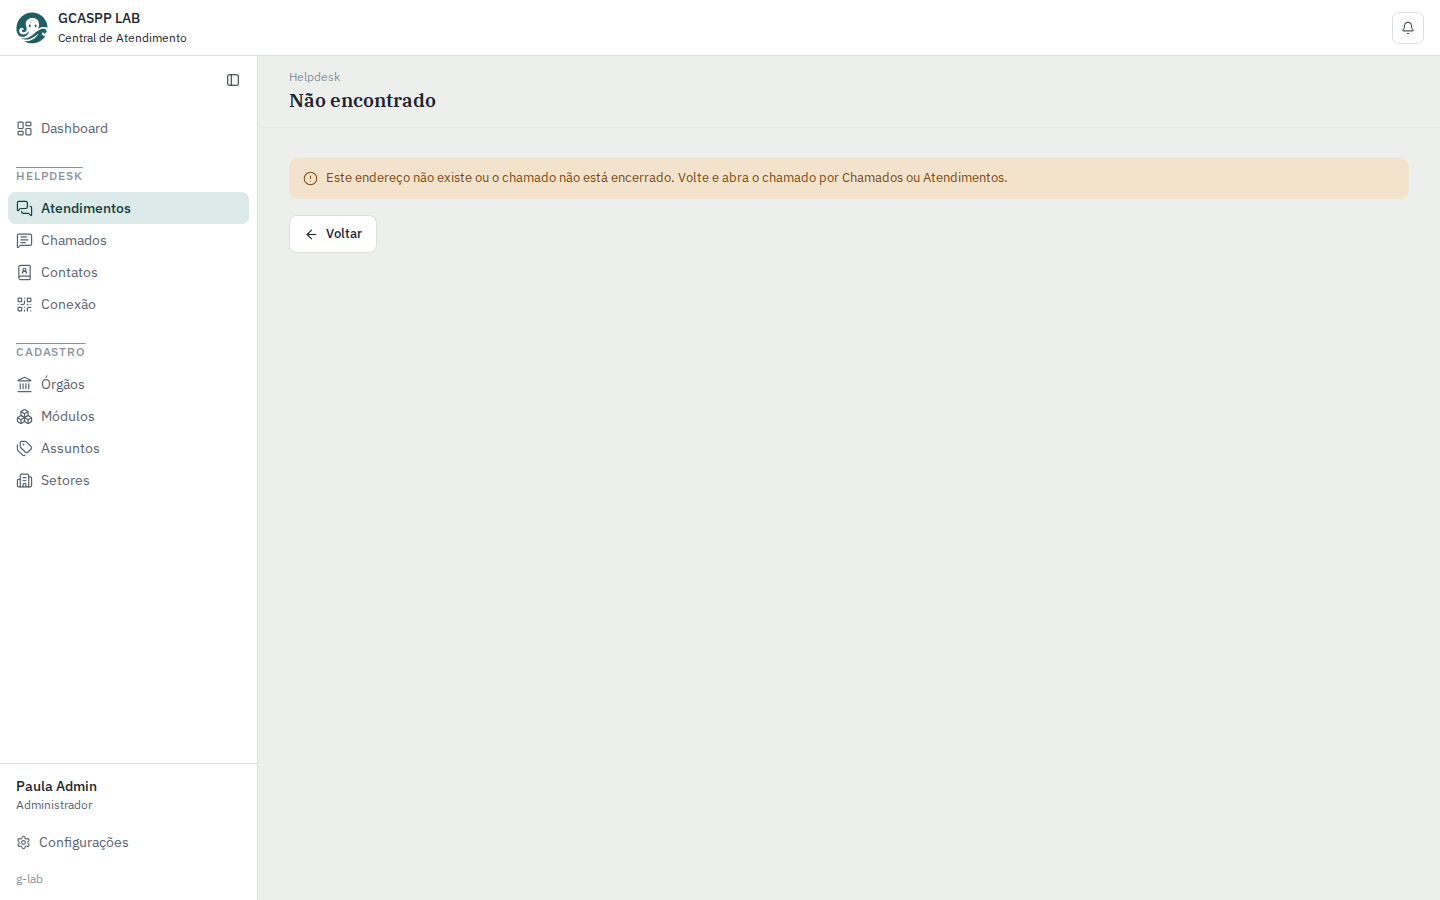
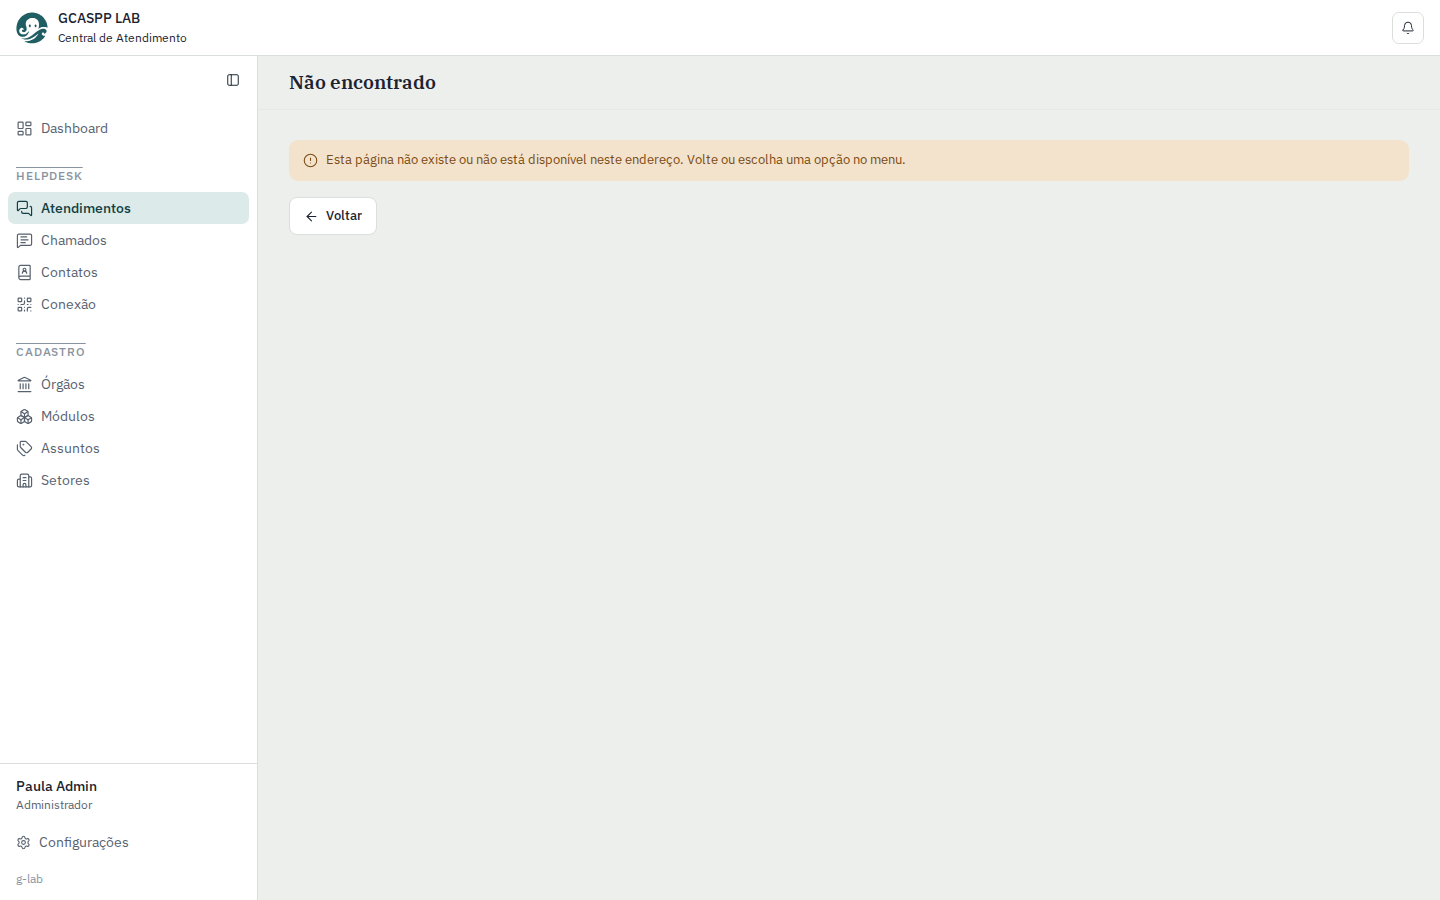
prototype(#188): Não encontrado global (rota coringa e /chamados/:id), texto genérico

Changed region(s): [[0.1875, 0.1556, 1.0, 0.28], [0.1875, 0.0622, 0.3125, 0.1244]]

diff --git a/frontend/src/prototype/NotFoundPrototype.tsx b/frontend/src/prototype/NotFoundPrototype.tsx
@@ -6,6 +6,8 @@
 //   /atendimentos/777  sem acesso 403          -> erro de hoje (sem mudança)
 //   /atendimentos/500  chamado encerrado       -> tela do chamado de hoje
 //   /conversas, /conversas/:id, /atendimento   -> Não encontrado
+//   /chamados/999 (404) ou /chamados/abc       -> Não encontrado (item Chamados ativo)
+//   /qualquer-coisa (rota coringa, logado)     -> Não encontrado (nenhum item ativo)
 import { ArrowLeft, CircleAlert } from 'lucide-react'
 import { useLocation, useNavigate, useParams } from 'react-router'
 import { Topbar } from '@/components/Topbar'
@@ -13,6 +15,7 @@ import { Alert, AlertDescription } from '@/components/ui/alert'
 import { Button } from '@/components/ui/button'
 import { ApiError } from '@/lib/api'
 import { useTicket } from '@/lib/conversation'
+import ConversasPage from '@/pages/ConversasPage'
 import TicketPage from '@/pages/ticket/TicketPage'
 
 export function NotFoundPage() {
@@ -22,13 +25,13 @@ export function NotFoundPage() {
   const goBack = () => (location.key === 'default' ? navigate('/', { replace: true }) : navigate(-1))
   return (
     <>
-      <Topbar breadcrumb="Helpdesk" title="Não encontrado" />
+      <Topbar title="Não encontrado" />
       <div className="mx-auto flex w-full max-w-(--content-max) flex-col items-start gap-4 px-4 py-4 md:px-[30px] md:py-[30px]">
         <Alert variant="warning">
           <CircleAlert strokeWidth={1.7} aria-hidden />
           <AlertDescription>
-            Este endereço não existe ou o chamado não está encerrado. Volte e abra o chamado por
-            Chamados ou Atendimentos.
+            Esta página não existe ou não está disponível neste endereço. Volte ou escolha uma opção
+            no menu.
           </AlertDescription>
         </Alert>
         <Button variant="outline" onClick={goBack}>
@@ -48,4 +51,14 @@ export function AtendimentoDetailPrototype() {
   if (ticket && ticket.status !== 'closed') return <NotFoundPage />
   // Encerrado, carregando ou outro erro (403): a tela do chamado de hoje, sem mudança.
   return <TicketPage />
+}
+
+// /chamados/:id: id inválido ou 404 mostra Não encontrado; o resto (ativo, 403, erro de rede) segue a tela de hoje.
+export function ChamadoDetailPrototype() {
+  const param = useParams().ticketId ?? ''
+  const valid = /^\d+$/.test(param)
+  const { error } = useTicket(valid ? Number(param) : 0, valid)
+  if (!valid) return <NotFoundPage />
+  if (error instanceof ApiError && error.status === 404) return <NotFoundPage />
+  return <ConversasPage />
 }

diff --git a/frontend/src/App.tsx b/frontend/src/App.tsx
@@ -13,7 +13,7 @@ import ConnectionPage from '@/pages/connection/ConnectionPage'
 import ContactsPage from '@/pages/directory/ContactsPage'
 import OrganizationsPage from '@/pages/directory/OrganizationsPage'
 // PROTÓTIPO #188
-import { AtendimentoDetailPrototype, NotFoundPage } from '@/prototype/NotFoundPrototype'
+import { AtendimentoDetailPrototype, ChamadoDetailPrototype, NotFoundPage } from '@/prototype/NotFoundPrototype'
 
 // Rotas que exigem sessão; sem sessão, vai para o login.
 function RequireAuth() {
@@ -52,7 +52,7 @@ export default function App() {
           <Route path="/atendimentos" element={<PanelPage />} />
           <Route path="/atendimentos/:ticketId" element={<AtendimentoDetailPrototype />} />
           <Route path="/chamados" element={<ConversasPage />} />
-          <Route path="/chamados/:ticketId" element={<ConversasPage />} />
+          <Route path="/chamados/:ticketId" element={<ChamadoDetailPrototype />} />
           <Route path="/atendimento" element={<NotFoundPage />} />
           <Route path="/conversas" element={<NotFoundPage />} />
           <Route path="/conversas/:ticketId" element={<NotFoundPage />} />
@@ -68,9 +68,10 @@ export default function App() {
             <Route path="/admin/setores" element={<SectorsPage />} />
             <Route path="/admin/usuarios" element={<UsersPage />} />
           </Route>
+          {/* PROTÓTIPO #188: endereço desconhecido, logado, mostra Não encontrado no layout; sem sessão, RequireAuth leva ao /login. */}
+          <Route path="*" element={<NotFoundPage />} />
         </Route>
       </Route>
-      <Route path="*" element={<Navigate to="/" replace />} />
     </Routes>
   )
 }
